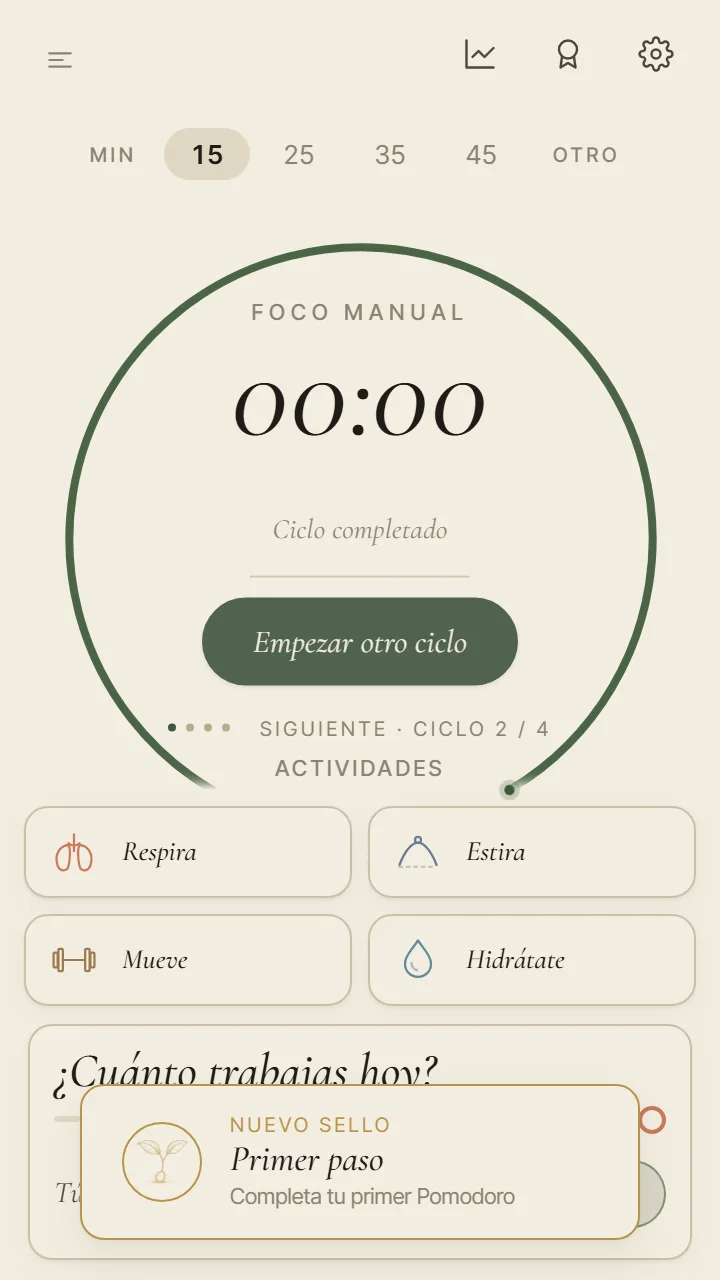
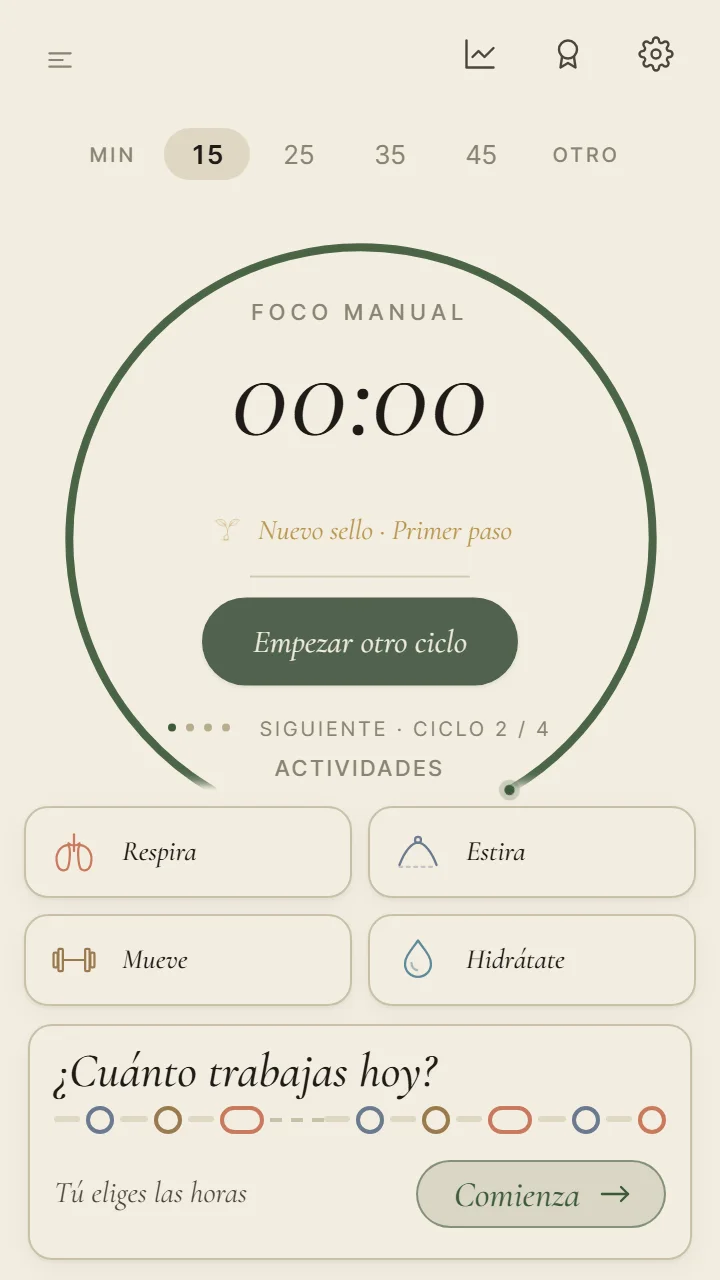
feat(sellos): en la home, el sello sale dentro del aro y no tapa nada
Ez no quiso el sello abajo en la home («que tampoco tape en la home»). En el móvil no queda
ningún hueco libre (todo el alto está ocupado para que no haya scroll), así que el aviso ocupa
durante 3 s el sitio de la línea en cursiva del aro («Ciclo completado»): esa línea se esconde
y se lee «Nuevo sello · Primer paso» en dorado, con su dibujo. Sin aro a la vista, la caja de
siempre. La caja de los avisos pierde su transform, porque un hijo fixed se colocaba respecto a
ella. Fotos en la página pausa-9oct.html, versión 2.

Changed region(s): [[0.0917, 0.8438, 0.8861, 0.9688], [0.3667, 0.4062, 0.7028, 0.4375], [0.8861, 0.875, 0.9167, 0.9062]]

diff --git a/app/ui/Toast.jsx b/app/ui/Toast.jsx
@@ -2,6 +2,32 @@
 
 const { useState: useStateTO, useEffect: useEffectTO } = React;
 
+/* EN LA HOME, EL SELLO HABLA DESDE EL ARO (Ez, 9 oct. 2026: «que tampoco tape en la home»).
+   El aviso ya espera a que no haya ninguna ventana ni sesión abierta (state-core.toast.jsx),
+   pero en la home salía abajo, en una caja encima de la tarjeta o la línea del día, y en el
+   móvil no queda ningún hueco libre: todo el alto está ocupado para que no haya scroll. Así
+   que ocupa, mientras dura, el sitio de la línea en cursiva de dentro del aro («Ciclo
+   completado», «Trabajo en profundidad»): esa línea se esconde y en su lugar se lee «Nuevo
+   sello · Primer paso» en dorado, con su dibujo. Sin aro a la vista, la caja de siempre. */
+function toastHuecoDelAro() {
+  try {
+    const sub = document.querySelector('[data-pace-dial-subtitle]');
+    if (!sub || !sub.getClientRects().length) return null;
+    const r = sub.getBoundingClientRect();
+    const caja = sub.parentElement.getBoundingClientRect();
+    /* El interior del aro escala en escritorio (el lienzo que crece): la letra se mide pintada. */
+    const escala = sub.offsetHeight ? r.height / sub.offsetHeight : 1;
+    const fs = parseFloat(getComputedStyle(sub).fontSize) * escala;
+    return { x: r.left + r.width / 2, y: r.top + r.height / 2, ancho: Math.round(caja.width), fs: fs };
+  } catch (e) { return null; }
+}
+if (!document.getElementById('pace-toast-css')) {
+  const st = document.createElement('style');
+  st.id = 'pace-toast-css';
+  st.textContent = '[data-pace-sello-en-aro] [data-pace-dial-subtitle] { visibility: hidden; }';
+  document.head.appendChild(st);
+}
+
 function ToastHost() {
   const [toasts, setToasts] = useStateTO([]);
   const { t, lang } = useT();
@@ -22,7 +48,7 @@ function ToastHost() {
         const full = { ...toast,
           title: tR('ach.item.' + a.id + '.title', a.title),
           desc: tR('ach.item.' + a.id + '.desc', a.desc),
-          glyph: a.glyph, glyphSvg: a.glyphSvg, exiting: false };
+          glyph: a.glyph, glyphSvg: a.glyphSvg, exiting: false, aro: toastHuecoDelAro() };
         setToasts(prev => [...prev, full]);
         try { playSound(a.secret ? 'achievement.secret' : 'achievement.unlock'); } catch(e) {}
         const durationMs = (typeof TOAST_DURATION_MS === 'number') ? TOAST_DURATION_MS : 3000;
@@ -39,20 +65,41 @@ function ToastHost() {
     });
   }, []);
 
+  /* La línea del aro se esconde mientras haya un sello en su sitio, también durante el fundido. */
+  const enAro = toasts.some(x => x.aro);
+  useEffectTO(() => {
+    document.documentElement.toggleAttribute('data-pace-sello-en-aro', enAro);
+  }, [enAro]);
+
+  /* Sin `transform` en la caja: un hijo `fixed` se colocaría respecto a ella y no a la ventana. */
   return (
     <div
       aria-live="polite"
       aria-atomic="true"
       style={{
         position: 'fixed',
-        bottom: 20, left: '50%',
-        transform: 'translateX(-50%)',
+        bottom: 20, left: 0, right: 0,
         zIndex: 200,
-        display: 'flex', flexDirection: 'column', gap: 8,
+        display: 'flex', flexDirection: 'column', alignItems: 'center', gap: 8,
         pointerEvents: 'none',
       }}
     >
-      {toasts.map(toast => (
+      {toasts.map((toast, i) => toast.aro ? (
+        <div key={toast._id} data-pace-sello-aro style={{
+          position: 'fixed', left: toast.aro.x, top: toast.aro.y - i * toast.aro.fs * 1.5,
+          transform: 'translate(-50%, -50%)', maxWidth: toast.aro.ancho,
+          display: 'flex', alignItems: 'center', gap: Math.round(toast.aro.fs * 0.45),
+          whiteSpace: 'nowrap', color: 'var(--achievement)',
+          fontFamily: 'var(--font-display)', fontStyle: 'italic', fontSize: toast.aro.fs, lineHeight: 1.2,
+          animation: 'pace-fade-in 320ms var(--ease)',
+          opacity: toast.exiting ? 0 : 1, transition: 'opacity 300ms ease-out',
+        }}>
+          <span style={{ flexShrink: 0, width: Math.round(toast.aro.fs * 1.35), height: Math.round(toast.aro.fs * 1.35), display: 'grid', placeItems: 'center', fontSize: toast.aro.fs }}>
+            {window.renderGlyph ? window.renderGlyph(toast) : toast.glyph}
+          </span>
+          <span style={{ overflow: 'hidden', textOverflow: 'ellipsis' }}>{t('ach.toast.new')} · {toast.title}</span>
+        </div>
+      ) : (
         <div key={toast._id} style={{
           display: 'flex', alignItems: 'center', gap: 14,
           padding: '12px 20px',

diff --git a/index.html b/index.html
@@ -15827,6 +15827,32 @@ Object.assign(window, { paceMusica, PACE_MUSICA });
 
 const { useState: useStateTO, useEffect: useEffectTO } = React;
 
+
+
+
+
+
+
+
+function toastHuecoDelAro() {
+  try {
+    const sub = document.querySelector('[data-pace-dial-subtitle]');
+    if (!sub || !sub.getClientRects().length) return null;
+    const r = sub.getBoundingClientRect();
+    const caja = sub.parentElement.getBoundingClientRect();
+
+    const escala = sub.offsetHeight ? r.height / sub.offsetHeight : 1;
+    const fs = parseFloat(getComputedStyle(sub).fontSize) * escala;
+    return { x: r.left + r.width / 2, y: r.top + r.height / 2, ancho: Math.round(caja.width), fs: fs };
+  } catch (e) {return null;}
+}
+if (!document.getElementById('pace-toast-css')) {
+  const st = document.createElement('style');
+  st.id = 'pace-toast-css';
+  st.textContent = '[data-pace-sello-en-aro] [data-pace-dial-subtitle] { visibility: hidden; }';
+  document.head.appendChild(st);
+}
+
 function ToastHost() {
   const [toasts, setToasts] = useStateTO([]);
   const { t, lang } = useT();
@@ -15847,7 +15873,7 @@ function ToastHost() {
         const full = { ...toast,
           title: tR('ach.item.' + a.id + '.title', a.title),
           desc: tR('ach.item.' + a.id + '.desc', a.desc),
-          glyph: a.glyph, glyphSvg: a.glyphSvg, exiting: false };
+          glyph: a.glyph, glyphSvg: a.glyphSvg, exiting: false, aro: toastHuecoDelAro() };
         setToasts((prev) => [...prev, full]);
         try {playSound(a.secret ? 'achievement.secret' : 'achievement.unlock');} catch (e) {}
         const durationMs = typeof TOAST_DURATION_MS === 'number' ? TOAST_DURATION_MS : 3000;
@@ -15864,20 +15890,41 @@ function ToastHost() {
     });
   }, []);
 
+
+  const enAro = toasts.some((x) => x.aro);
+  useEffectTO(() => {
+    document.documentElement.toggleAttribute('data-pace-sello-en-aro', enAro);
+  }, [enAro]);
+
+
   return (
     React.createElement("div", {
       "aria-live": "polite",
       "aria-atomic": "true",
       style: {
         position: 'fixed',
-        bottom: 20, left: '50%',
-        transform: 'translateX(-50%)',
+        bottom: 20, left: 0, right: 0,
         zIndex: 200,
-        display: 'flex', flexDirection: 'column', gap: 8,
+        display: 'flex', flexDirection: 'column', alignItems: 'center', gap: 8,
         pointerEvents: 'none'
       } },
 
-    toasts.map((toast) =>
+    toasts.map((toast, i) => toast.aro ?
+    React.createElement("div", { key: toast._id, "data-pace-sello-aro": true, style: {
+        position: 'fixed', left: toast.aro.x, top: toast.aro.y - i * toast.aro.fs * 1.5,
+        transform: 'translate(-50%, -50%)', maxWidth: toast.aro.ancho,
+        display: 'flex', alignItems: 'center', gap: Math.round(toast.aro.fs * 0.45),
+        whiteSpace: 'nowrap', color: 'var(--achievement)',
+        fontFamily: 'var(--font-display)', fontStyle: 'italic', fontSize: toast.aro.fs, lineHeight: 1.2,
+        animation: 'pace-fade-in 320ms var(--ease)',
+        opacity: toast.exiting ? 0 : 1, transition: 'opacity 300ms ease-out'
+      } },
+    React.createElement("span", { style: { flexShrink: 0, width: Math.round(toast.aro.fs * 1.35), height: Math.round(toast.aro.fs * 1.35), display: 'grid', placeItems: 'center', fontSize: toast.aro.fs } },
+    window.renderGlyph ? window.renderGlyph(toast) : toast.glyph
+    ),
+    React.createElement("span", { style: { overflow: 'hidden', textOverflow: 'ellipsis' } }, t('ach.toast.new'), " \xB7 ", toast.title)
+    ) :
+
     React.createElement("div", { key: toast._id, style: {
         display: 'flex', alignItems: 'center', gap: 14,
         padding: '12px 20px',
@@ -15924,7 +15971,7 @@ function ToastHost() {
 }
 
 Object.assign(window, { ToastHost });
-;Object.assign(window, { ToastHost });
+;Object.assign(window, { toastHuecoDelAro, ToastHost });
 })();
 </script>
   <!-- Aviso de versión nueva del SW (s102 · PWA). Escucha el anuncio del

diff --git a/docs/traspaso/archivos/pausa-9oct/pausa-9oct.html b/docs/traspaso/archivos/pausa-9oct/pausa-9oct.html
@@ -132,17 +132,16 @@ ol.preguntas .rec { display: block; color: var(--tinta-2); font-size: 15px; }
     <p>Con el primer Pomodoro, el aviso «Nuevo sello» salía encima de la pausa y tapaba «Saltar esta pausa». Ahora espera mientras haya algo abierto (la pausa, Hidrátate, una rutina) y sale al volver a la home. El sello se gana igual en el momento.</p>
     <div class="rejilla">
       <figure><img src="fotos/sello-360x640.webp" alt="La pausa del primer Pomodoro, sin el aviso encima" loading="lazy"><figcaption><b>Con la pausa abierta</b><br>el aviso espera</figcaption></figure>
-      <figure><img src="fotos/sello-home-360x640.webp" alt="La home con el aviso Nuevo sello abajo" loading="lazy"><figcaption><b>Al saltar la pausa</b><br>sale en la home</figcaption></figure>
+      <figure><img src="fotos/sello-home-360x640.webp" alt="La home con el aviso Nuevo sello abajo" loading="lazy"><figcaption><b>Al saltar la pausa</b><br>sale dentro del aro</figcaption></figure>
     </div>
-    <p>Lo que no he podido cumplir del todo: en la home del móvil no queda ningún hueco libre (todo el alto está ocupado para que no haya scroll), así que el aviso sigue saliendo abajo durante 3 segundos, encima del final de la tarjeta del día. No bloquea nada: los toques pasan a lo que hay debajo. En el portátil pasa lo mismo con la línea del día: <a href="fotos/sello-home-1280x800.webp">ver foto</a>.</p>
+    <p>En la home tampoco tapa nada: en vez de una caja abajo, durante 3 segundos ocupa el sitio de la línea en cursiva de dentro del aro («Ciclo completado»), en dorado y con su dibujo, y luego esa línea vuelve. En el portátil: <a href="fotos/sello-home-1280x800.webp">crema</a> y <a href="fotos/sello-home-1280x800-oscuro.webp">oscuro</a>; en el móvil oscuro: <a href="fotos/sello-home-360x640-oscuro.webp">ver foto</a>.</p>
   </section>
 
   <section>
     <div class="meta">Lo que tienes que decir</div>
-    <h2>Dos preguntas</h2>
+    <h2>Una pregunta</h2>
     <ol class="preguntas">
-      <li><b>¿Subimos la pausa así?</b><span class="rec">Si quieres cambiar algo (los botones rectos, un texto…), dímelo.</span></li>
-      <li><b>El sello en la home: ¿vale así por ahora?</b><span class="rec">Recomiendo que sí, y que el sitio propio del sello en la home se decida con la barra lateral nueva, que tiene su propia sesión. Una opción es que no salga ningún aviso encima y el sello aparezca en «Último logro», con su sonido.</span></li>
+      <li><b>La pausa ya dijiste que sí. El sello dentro del aro: ¿lo subimos así?</b><span class="rec">Recomiendo que sí: se lee, suena y no tapa nada, ni en el móvil ni en el portátil.</span></li>
     </ol>
   </section>
 </main>

diff --git a/docs/traspaso/archivos/pausa-9oct/fotos.js b/docs/traspaso/archivos/pausa-9oct/fotos.js
@@ -101,13 +101,15 @@ async function guardar(png, nombre, m, ancho, alto) {
 
 (async () => {
   fs.mkdirSync(SALIDA, { recursive: true });
-  const medidas = {};
+  const medidas = fs.existsSync(MEDIDAS) ? JSON.parse(fs.readFileSync(MEDIDAS, 'utf8')) : {};
   const srv = await servidor();
   const browser = await chromium.launch();
   try {
     const tandas = [];
-    for (const caso of Object.keys(CASOS)) for (const paleta of ['crema', 'oscuro']) tandas.push([caso, paleta, 'es']);
-    tandas.push(['corta', 'crema', 'en']);
+    /* FOTOS_CASOS=sello repite solo una parte. */
+    const casos = (process.env.FOTOS_CASOS || Object.keys(CASOS).join(',')).split(',');
+    for (const caso of casos) for (const paleta of ['crema', 'oscuro']) tandas.push([caso, paleta, 'es']);
+    if (!process.env.FOTOS_CASOS) tandas.push(['corta', 'crema', 'en']);
     for (const [caso, paleta, lang] of tandas) {
       for (const tam of TAMANOS) {
         const { context, page } = await abrirPausa(browser, caso, paleta, lang, tam);
@@ -119,7 +121,7 @@ async function guardar(png, nombre, m, ancho, alto) {
         if (caso === 'sello') {
           await page.getByRole('button', { name: 'Saltar esta pausa', exact: true }).click();
           await page.locator('div[aria-live="polite"] > div').first().waitFor({ state: 'visible' });
-          await page.waitForTimeout(500);
+          await page.waitForTimeout(600);
           await sharp(await page.screenshot()).webp({ quality: 84 }).toFile(path.join(SALIDA, nombre.replace('sello', 'sello-home') + '.webp'));
         }
         await context.close();
